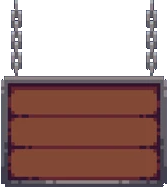
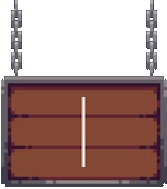
updated mirror picture

Changed region(s): [[0.479, 0.5026, 0.5389, 0.8995]]

diff --git a/Scripts/menu_screen.py b/Scripts/menu_screen.py
@@ -101,7 +101,7 @@ def play_game():
 
 def show_controls():
     # Load and display the controls image
-    controls_image = pygame.image.load("../menu_images/updated_controls.png")
+    controls_image = pygame.image.load("../menu_images/controls_image.png")
     controls_image = pygame.transform.scale(controls_image, (SCREEN_WIDTH, SCREEN_HEIGHT))
     
     while True:
@@ -119,8 +119,8 @@ def show_controls():
 def show_objective():
     # Load multiple images for objectives
     objective_images = [
-        pygame.image.load("../menu_images/updated_objective.png"),
-        pygame.image.load("../menu_images/updated_items.png")
+        pygame.image.load("../menu_images/objective_image.png"),
+        pygame.image.load("../menu_images/items_image.png")
     ]
     objective_images = [pygame.transform.scale(img, (SCREEN_WIDTH, SCREEN_HEIGHT)) for img in objective_images]
     

diff --git a/Scripts/items.py b/Scripts/items.py
@@ -96,12 +96,12 @@ item_classes = [
 ]
     
 map_spawn_coordinates = {
-    1: [(276, 548),
-        (635, 548),
-        (1010, 548),
-        (1010, 126),
-        (635, 126),
-        (276, 126)
+    1: [(277, 548),
+        (636, 548),
+        (1011, 548),
+        (1011, 126),
+        (636, 126),
+        (277, 126)
         ]
 ,
     2: [  # Map 2 coordinates (new)
